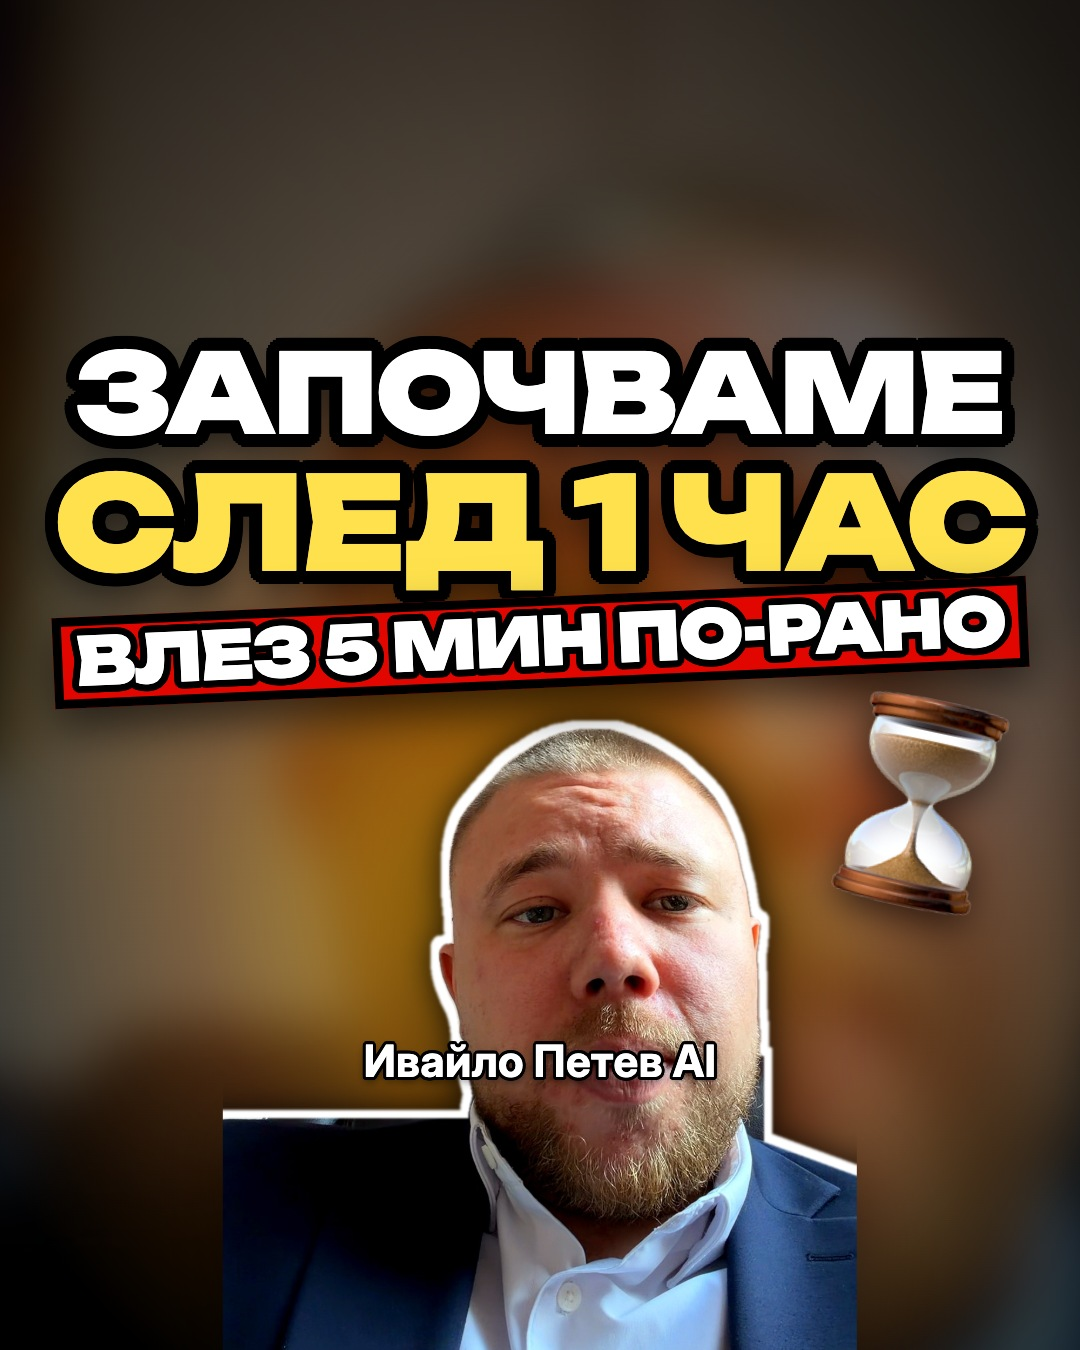
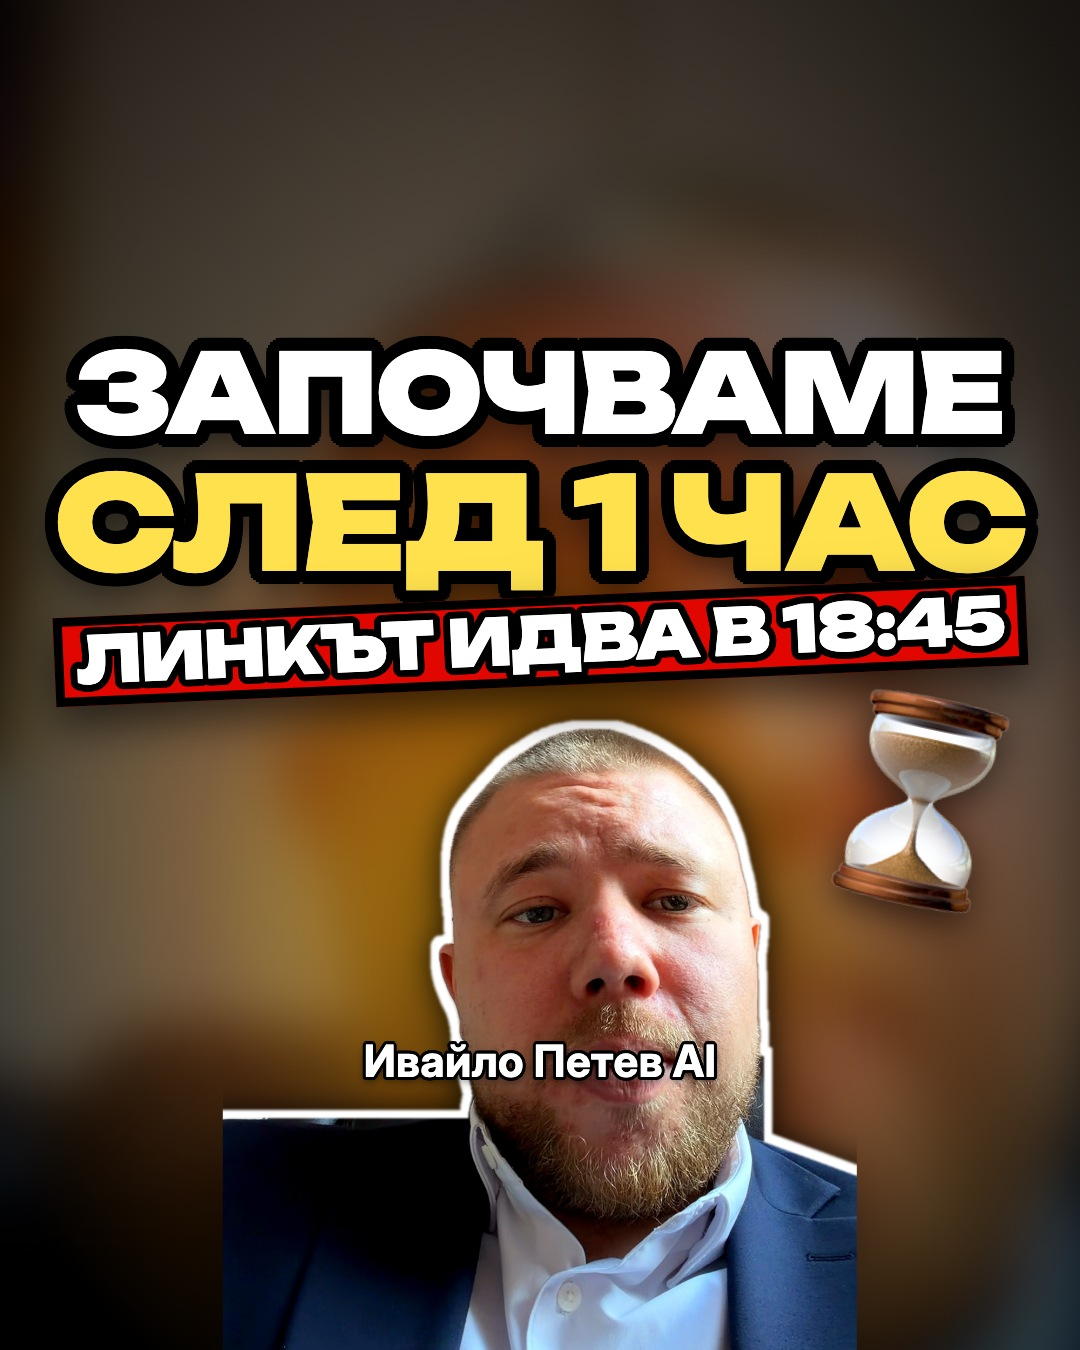
Viber: линкът за влизане чак 15 мин преди началото (Стефчо) (#382)
Постът в неделя 18:00 е без линк: „Линкът за влизане ще пусна тук в 18:45“; картинката „ЛИНКЪТ ИДВА В 18:45“.

Changed region(s): [[0.0306, 0.4356, 0.9472, 0.5911], [0.7944, 0.5911, 0.8861, 0.6844]]

diff --git a/prom-marketing/lib/uebinar/viber-postove.ts b/prom-marketing/lib/uebinar/viber-postove.ts
@@ -90,7 +90,8 @@ export const VIBER_POSTOVE: readonly ViberPost[] = [
     kluch: "10",
     koga: "2026-11-29T18:00:00+02:00",
     kartina: "k10-sled-1-chas.jpeg",
-    tekst: `След 1 час започваме ⏰\nВлез 5 минути по-рано и си провери звука.\n👉 ${VLEZ}`,
+    // Без линка: Стефчо — „линка го обявяваме в последните 15 минути“ (Loom 25.11); Ивайло, 26.11: „както е казал, 15 минути по-рано“.
+    tekst: "След 1 час започваме ⏰\nЛинкът за влизане ще пусна тук в 18:45. Сложи си аларма и си провери звука.",
   },
   {
     kluch: "15min",
